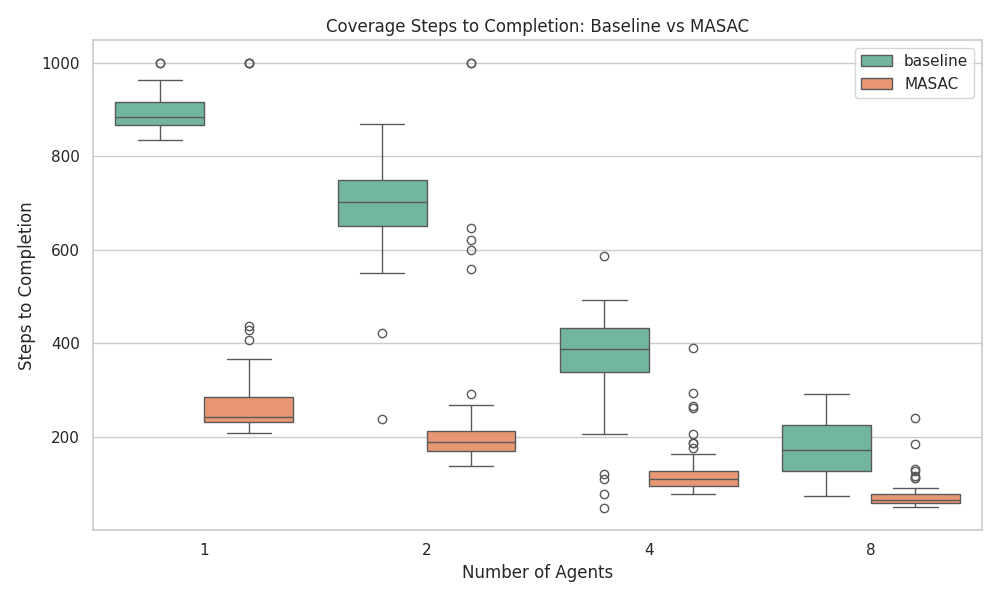
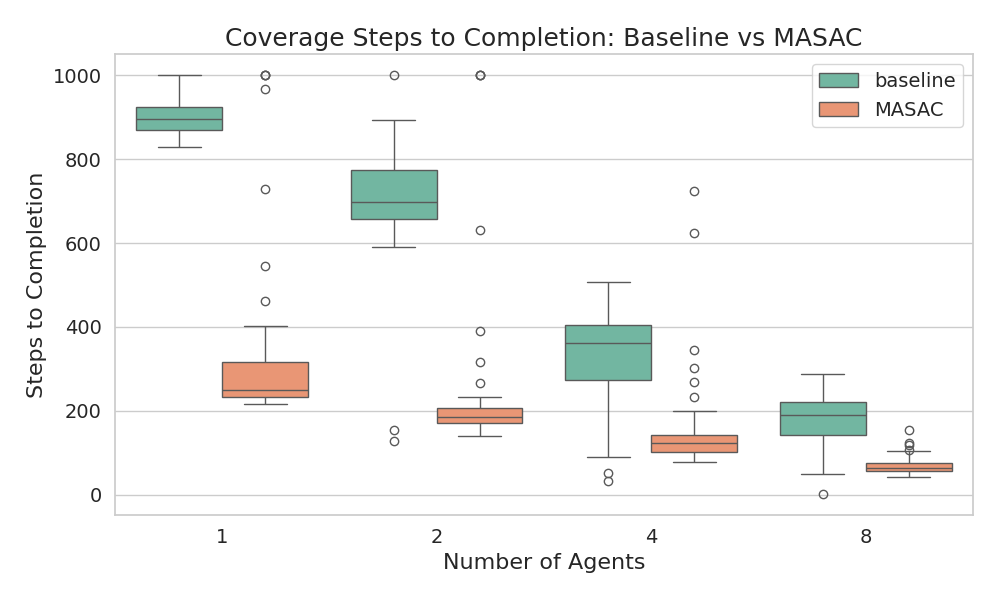
Enhance visualization in evaluation scripts by increasing font sizes and adjusting plot layouts; add new coverage percentage and trajectory progress images.

diff --git a/masac/evaluate_masac_paths.py b/masac/evaluate_masac_paths.py
@@ -5,14 +5,15 @@ import matplotlib.pyplot as plt
 from matplotlib.patches import Rectangle
 from marl_swarm.explore import Explore
 from evaluate_masac import Actor
+import math
 
 # boost all font sizes for readability
 plt.rcParams.update({
     'font.size': 14,
-    'axes.titlesize': 16,
+    'axes.titlesize': 16, # Keep subplot titles readable
     'axes.labelsize': 14,
     'legend.fontsize': 12,
-    'xtick.labelsize': 12,
+    'xtick.labelsize': 12, # Slightly smaller ticks for less clutter
     'ytick.labelsize': 12
 })
 
@@ -20,28 +21,50 @@ def run_episode_and_record(env, actor, device, seed):
     obs, _ = env.reset(seed=seed)
     done = False
     actor.eval()
-    paths = {agent: [] for agent in env.possible_agents}
-    while not done:
+    paths_history = {a: [] for a in env.possible_agents}
+    visited_history = []
+    steps = 0
+    max_steps = getattr(env, 'max_timesteps', 500)
+
+    # initial state
+    for a in env.possible_agents:
+        paths_history[a].append(env._agent_location[a].copy())
+    visited_history.append(env.visited_cells.copy())
+
+    while not done and steps < max_steps:
         actions = {}
         with torch.no_grad():
-            for agent in env.possible_agents:
+            for a in env.possible_agents:
                 inp = torch.tensor(
-                    np.concatenate([obs[agent], [float(agent.split("_")[1])]]),
-                    dtype=torch.float32, device=device
+                       np.concatenate([obs[a], [float(a.split("_")[1])]]),
+                       dtype=torch.float32, device=device
                 ).unsqueeze(0)
-                a, _, _ = actor.get_action(inp)
-                actions[agent] = a.cpu().numpy().flatten()
-        for agent in env.possible_agents:
-            paths[agent].append(env._agent_location[agent].copy())
+                a_t, _, _ = actor.get_action(inp)
+                actions[a] = a_t.cpu().numpy().flatten()
         obs, _, term, trunc, _ = env.step(actions)
         done = any(term.values()) or any(trunc.values())
-    visited = np.array([env.hgrid.get_center(g) for g in env.visited_cells])
-    return paths, visited, env
+        steps += 1
+
+        # Record state *after* step
+        for a in env.possible_agents:
+            paths_history[a].append(env._agent_location[a].copy())
+        visited_history.append(env.visited_cells.copy())
+
+    # Ensure histories have consistent length (steps + 1 including initial state)
+    expected_len = steps + 1
+    for a in paths_history:
+        while len(paths_history[a]) < expected_len:
+            # Pad with last known position if episode ended early
+            paths_history[a].append(paths_history[a][-1].copy())
+    while len(visited_history) < expected_len:
+        visited_history.append(visited_history[-1].copy())
+
+
+    return paths_history, visited_history, env, steps
 
 def main():
     parser = argparse.ArgumentParser()
-    parser.add_argument("--model", required=True,
-                        help="path to the trained actor .pt")
+    parser.add_argument("--model", required=True)
     parser.add_argument("--size", type=int, default=20)
     parser.add_argument("--threshold", type=float, default=0.2)
     parser.add_argument("--num_obstacles", type=int, default=0)
@@ -49,73 +72,216 @@ def main():
 
     device = torch.device("cuda" if torch.cuda.is_available() else "cpu")
     agent_counts = [2, 4, 8]
-    fig, axes = plt.subplots(1, len(agent_counts),
-                             figsize=(5 * len(agent_counts), 5))
+    progress_fractions = [0.0, 0.3, 0.6, 1.0]
+    nrows, ncols = len(agent_counts), len(progress_fractions)
 
-    # enlarge tick labels on each subplot
-    for ax in np.atleast_1d(axes):
-        ax.tick_params(axis='both', which='major', labelsize=12)
+    # Adjust figsize height slightly for bottom legend and row labels
+    fig, axes = plt.subplots(nrows, ncols,
+                             figsize=(5*ncols, 5*nrows + 0.5), # Adjusted height
+                             squeeze=False)
 
-    for ax, n in zip(axes, agent_counts):
+    all_handles, all_labels = {}, {}
+
+    for r, n in enumerate(agent_counts):
+        # try up to 50 seeds to find a completed run
         seed = 0
-        while True:
-            env = Explore(
-                drone_ids=np.arange(n),
-                size=args.size,
-                num_drones=n,
-                threshold=args.threshold,
-                num_obstacles=args.num_obstacles,
-                render_mode=None
-            )
+        final_paths = final_visited = None
+        final_env = None
+        final_steps = 0
+        run_found = False
+
+        while seed < 50:
+            env = Explore(np.arange(n), size=args.size, num_drones=n,
+                          threshold=args.threshold,
+                          num_obstacles=args.num_obstacles,
+                          render_mode=None)
             env.max_timesteps = 500
             actor = Actor(env).to(device)
-            actor.load_state_dict(torch.load(args.model,
-                                             map_location=device))
-            paths, visited, env = run_episode_and_record(env, actor, device, seed)
-            if hasattr(env, "finish_reward_given") and all(env.finish_reward_given.values()):
-                break
-            env.close()
+            try:
+                actor.load_state_dict(torch.load(args.model,
+                                                 map_location=device))
+            except Exception as e:
+                 print(f"Error loading model for {n} agents, seed {seed}: {e}")
+                 env.close()
+                 seed += 1
+                 continue # Try next seed
+
+            ph, vh, env_state, steps = run_episode_and_record(
+                                        env, actor, device, seed)
+
+            # Check success condition
+            success = False
+            try:
+                if hasattr(env_state, "finish_reward_given") and \
+                   env_state.finish_reward_given and \
+                   all(env_state.finish_reward_given.values()):
+                    success = True
+            except Exception as e:
+                print(f"Warning: Error checking success condition for seed {seed}: {e}")
+
+            if success:
+                final_paths, final_visited = ph, vh
+                final_env, final_steps = env_state, steps
+                run_found = True
+                print(f"Successful run found for {n} UAVs with seed {seed} (Steps: {final_steps})")
+                break # Exit seed loop
+            else:
+                env_state.close() # Close unsuccessful env
             seed += 1
+        # End of seed loop
 
-        # plot each agent’s path
-        for agent, pts in paths.items():
-            pts = np.array(pts)
-            ax.plot(pts[:, 0], pts[:, 1], label=agent)
+        # If no successful run was found after 50 attempts, skip plotting this row
+        if not run_found:
+            print(f"Warning: no successful run found for {n} UAVs after 50 attempts, skipping row {r}")
+            # Optionally clear axes or add placeholder text
+            for c in range(ncols):
+                axes[r, c].set_title(f"{n} UAVs (No successful run)")
+                axes[r, c].set_xticks([])
+                axes[r, c].set_yticks([])
+            # Still need to close the last attempted env if it exists and wasn't the final one
+            if 'env_state' in locals() and env_state != final_env:
+                env_state.close()
+            continue # Skip to next agent count
 
-        # plot obstacles
-        for (ox, oy, _), sz in zip(env.obstacles, env.obstacle_sizes):
-            rect = Rectangle(
-                (ox - sz / 2, oy - sz / 2), sz, sz,
-                facecolor="k", alpha=0.3
-            )
-            ax.add_patch(rect)
+        # dynamic step indices based on the successful run's steps
+        idxs = []
+        for f in progress_fractions:
+            step_idx = 0
+            if f == 1.0:
+                step_idx = final_steps
+            elif f > 0.0:
+                # Ensure index doesn't exceed history length (steps + 1)
+                step_idx = min(math.ceil(final_steps * f), final_steps)
+            # Ensure index is within bounds of history lists
+            step_idx = min(step_idx, len(final_visited) - 1)
+            idxs.append(step_idx)
 
-        # plot visited coverage points
-        if visited.size:
-            ax.scatter(visited[:, 0], visited[:, 1],
-                       c="gray", s=8, alpha=0.5)
+        # Ensure unique indices and correct number of columns
+        idxs = sorted(list(set(idxs)))
+        while len(idxs) < ncols:
+            # Pad with final step index if needed
+            final_idx = min(final_steps, len(final_visited) - 1)
+            if final_idx not in idxs:
+                 idxs.append(final_idx)
+            else: # If final is already there, duplicate last valid index? Or handle differently?
+                 idxs.append(idxs[-1]) # Simple duplication for now
+        idxs = sorted(idxs)[:ncols]
 
-        ax.set_title(f"{n} agents")
-        ax.set_xlim(0, args.size)
-        ax.set_ylim(0, args.size)
-        env.close()
 
-    # combine all subplot legends into one, spanning full width at bottom
-    handles, labels = axes[-1].get_legend_handles_labels()
-    fig.legend(
-        handles, labels,
-        loc='lower center',
-        bbox_to_anchor=(0, -0.1, 1, 0.1),
-        mode='expand',
-        ncol=len(handles),
-        frameon=False,
-        fontsize=12
-    )
-    # make room at the bottom for the single‑row legend
-    plt.subplots_adjust(bottom=0.2)
-    plt.tight_layout()
-    plt.savefig("agent_paths.png", bbox_inches="tight")
-    plt.show()
+        print(f"Plotting indices for {n} UAVs: {idxs}")
+
+
+        for c, t in enumerate(idxs):
+            ax = axes[r, c]
+            # Ensure timestep index t is valid
+            t = min(t, len(final_visited) - 1)
+            actual_time = t # Use the index directly as 'time' for annotation
+
+            # obstacles
+            if hasattr(final_env, 'obstacles') and final_env.obstacles is not None:
+                for (ox, oy, _), sz in zip(final_env.obstacles,
+                                           final_env.obstacle_sizes):
+                    ax.add_patch(
+                        Rectangle((ox-sz/2, oy-sz/2), sz, sz,
+                                  facecolor='k', alpha=0.3)
+                    )
+            # paths
+            for aid, hist in final_paths.items():
+                # Ensure history slicing is correct and within bounds
+                path_segment = np.array(hist[:t+1]) # Slice up to index t+1
+                if path_segment.size > 0:
+                    line, = ax.plot(path_segment[:,0], path_segment[:,1],
+                                    label=f"UAV {aid.split('_')[1]}",
+                                    linewidth=1.5)
+                    # Plot current position marker
+                    if path_segment.shape[0] > 0:
+                        ax.plot(path_segment[-1,0], path_segment[-1,1], 'o',
+                                color=line.get_color(), markersize=5)
+                    # Collect handles for legend
+                    lbl = f"UAV {aid.split('_')[1]}"
+                    if lbl not in all_labels:
+                        all_handles[lbl], all_labels[lbl] = line, lbl
+
+            # coverage
+            if t < len(final_visited): # Check index validity
+                vcs = final_visited[t]
+                if vcs and hasattr(final_env, 'hgrid'): # Check if vcs is not empty and hgrid exists
+                    try:
+                        pts = np.array([final_env.hgrid.get_center(g) for g in vcs])
+                        if pts.size > 0:
+                            ax.scatter(pts[:,0], pts[:,1],
+                                       c='gray', s=12, alpha=0.6)
+                    except Exception as e:
+                        print(f"Error plotting coverage at index {t}: {e}")
+
+
+            # subplot title
+            pref = f"{n} UAVs, " if c==0 else ""
+            # Use actual_time for title consistency
+            if c==0: title=f"{pref}Initial State (t={actual_time})"
+            elif t == (len(final_visited) - 1): title=f"{pref}Completion (t={actual_time})" # Check if it's the last index
+            else:
+                 # Find the original fraction corresponding to this column index c
+                 current_fraction = progress_fractions[c] * 100
+                 title=f"{pref}{current_fraction:.0f}% Progress (t={actual_time})"
+            ax.set_title(title)
+
+            ax.set_xlim(0, args.size)
+            ax.set_ylim(0, args.size)
+            ax.set_aspect('equal', adjustable='box') # Use 'box' for equal aspect ratio
+            ax.tick_params(axis='both', which='major', labelsize=10) # Use consistent tick label size
+
+        # Close the environment specific to this successful run
+        if final_env:
+            final_env.close()
+    # End of agent count loop
+
+    # --- Combined legend at bottom ---
+    if all_handles:
+        pairs = sorted(
+            # Sort by UAV number (integer part of the label)
+            [(h, l, int(l.split()[-1])) for l, h in all_handles.items() if l.split()[-1].isdigit()],
+            key=lambda x: x[2]
+        )
+        hs, ls = zip(*[(h, l) for h, l, _ in pairs]) if pairs else ([], [])
+        fig.legend(hs, ls, loc='lower center',
+                   bbox_to_anchor=(0.5, 0.01), # Anchor slightly above bottom
+                   ncol=len(hs), frameon=False, fontsize=12)
+    else:
+        print("No handles found for legend.")
+
+
+    # --- Final Layout Adjustments ---
+    # Adjust layout tightly, leaving space for legend and row labels at bottom
+    # Increase bottom margin slightly more if row labels overlap legend
+    plt.tight_layout(rect=[0, 0.08, 1, 0.98]) # rect=[left, bottom, right, top]
+
+    # Adjust spacing between subplots AFTER tight_layout
+    # Increase hspace slightly to prevent title/row label overlap
+    plt.subplots_adjust(hspace=0.35, wspace=0.15) # Increased hspace
+
+    # --- Add row labels centered below each row using figure coordinates ---
+    # This is done last to use the final subplot positions
+    for r in range(nrows):
+        try:
+            # Find the y-coordinate of the bottom of the row in figure coordinates
+            # Use the middle plot for positioning reference if possible
+            mid_col = ncols // 2
+            bottom_edge = axes[r, mid_col].get_position().y0
+            # Place the label slightly below this edge, centered horizontally
+            label_y_pos = bottom_edge - 0.045 # Adjust offset if needed (make more negative to move down)
+            fig.text(0.5, label_y_pos, f"({chr(ord('a') + r)})",
+                     transform=fig.transFigure, # Use figure coordinates
+                     ha='center', va='top', fontsize=16)
+        except Exception as e:
+            print(f"Could not add row label for row {r}: {e}")
+
+
+    # --- Save Figure ---
+    save_filename = "uav_trajectory_progress_combined_final_v2.png" # New filename
+    plt.savefig(save_filename, bbox_inches='tight', dpi=300)
+    print(f"Saved plot: {save_filename}")
+    plt.close(fig)
 
 if __name__ == "__main__":
     main()

diff --git a/masac/evaluate_masac.py b/masac/evaluate_masac.py
@@ -156,16 +156,19 @@ def main():
         print(f"Completed {n} agents")
 
     df = pd.DataFrame.from_records(records)
-    sns.set(style="whitegrid", palette="Set2")
+    # increase overall font sizes
+    sns.set(style="whitegrid", palette="Set2", font_scale=1.5)
 
     plt.figure(figsize=(10, 6))
     ax = sns.boxplot(x="agents", y="steps", hue="method",
-                     data=df, showfliers=True)   # now outliers are shown
-
-    ax.set_title("Coverage Steps to Completion: Baseline vs MASAC")
-    ax.set_xlabel("Number of Agents")
-    ax.set_ylabel("Steps to Completion")
-    plt.legend(title="")
+                     data=df, showfliers=True)
+    # bump up individual element sizes
+    ax.set_title("Coverage Steps to Completion: Baseline vs MASAC", fontsize=18)
+    ax.set_xlabel("Number of Agents", fontsize=16)
+    ax.set_ylabel("Steps to Completion", fontsize=16)
+    plt.legend(title="", fontsize=14)
+    plt.xticks(fontsize=14)
+    plt.yticks(fontsize=14)
     plt.tight_layout()
     plt.savefig("coverage_steps.png")
     plt.show()
